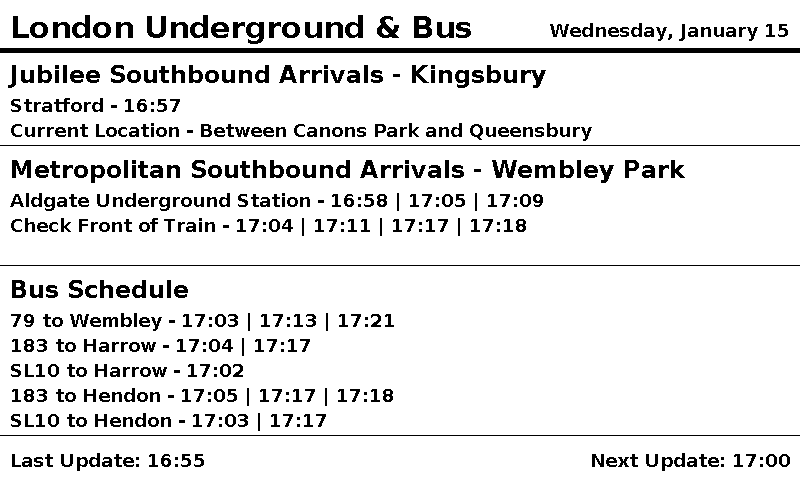
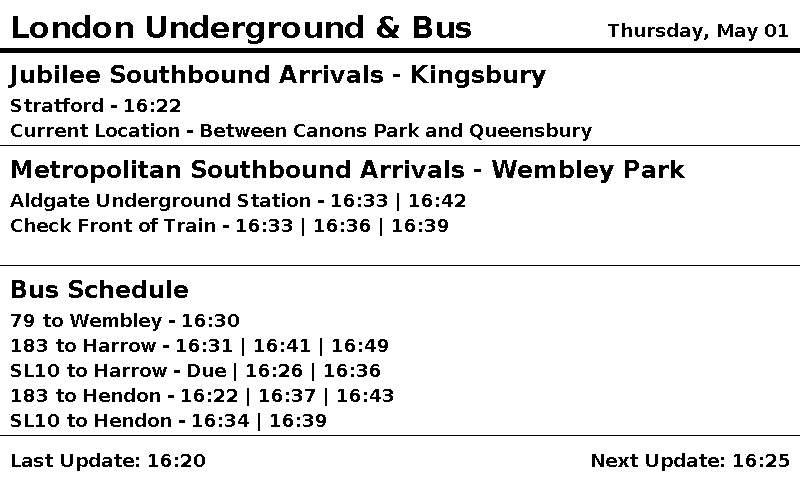
Using BST and checking length of the arrays before rending

diff --git a/tfl.py b/tfl.py
@@ -1,6 +1,6 @@
 import concurrent.futures
 import requests
-from datetime import datetime
+from datetime import datetime, timezone, timedelta
 
 # Helper functions
 def get_station_arrivals(station_id):
@@ -18,8 +18,19 @@ def format_time_to_station(seconds, expected_arrival):
     """Format time to station into a readable format."""
     if seconds < 60:
         return "Due"
-    dt = datetime.strptime(expected_arrival, '%Y-%m-%dT%H:%M:%SZ')
-    return dt.strftime('%H:%M')
+    
+    # Parse UTC time
+    utc_time = datetime.strptime(expected_arrival, '%Y-%m-%dT%H:%M:%SZ')
+    utc_time = utc_time.replace(tzinfo=timezone.utc)
+    
+    # Get current time to determine if we're in BST (March to October)
+    now = datetime.now(timezone.utc)
+    is_bst = now.month in range(3, 11) or (now.month == 3 and now.day >= 25) or (now.month == 10 and now.day <= 25)
+    
+    # Convert to London time (UTC+0 or UTC+1)
+    london_time = utc_time + timedelta(hours=1 if is_bst else 0)
+    
+    return london_time.strftime('%H:%M')
 
 def group_arrivals_by_platform(arrivals, platform_name):
     """Filter and sort arrivals by platform."""

diff --git a/main.py b/main.py
@@ -123,8 +123,10 @@ def generate_image():
   # Section: Jubilee Southbound Arrivals
   draw.text((10, 155), "Metropolitan Southbound Arrivals - Wembley Park", font=font_medium, fill=font_color)
 
-  draw.text((10, 190), str(wembleyLatestArrivals[0]['destination']) + " - " + str(wembleyLatestArrivals[0]['arrival_times']), font=font_small, fill=font_color)
-  draw.text((10, 215), str(wembleyLatestArrivals[1]['destination']) + " - " + str(wembleyLatestArrivals[1]['arrival_times']), font=font_small, fill=font_color)
+  if (len(wembleyLatestArrivals) > 0):
+    draw.text((10, 190), str(wembleyLatestArrivals[0]['destination']) + " - " + str(wembleyLatestArrivals[0]['arrival_times']), font=font_small, fill=font_color)
+  if (len(wembleyLatestArrivals) > 1):
+    draw.text((10, 215), str(wembleyLatestArrivals[1]['destination']) + " - " + str(wembleyLatestArrivals[1]['arrival_times']), font=font_small, fill=font_color)
   if (len(wembleyLatestArrivals) > 2):
     draw.text((10, 240), str(wembleyLatestArrivals[2]['destination']) + " - " + str(wembleyLatestArrivals[2]['arrival_times']), font=font_small, fill=font_color)
 
